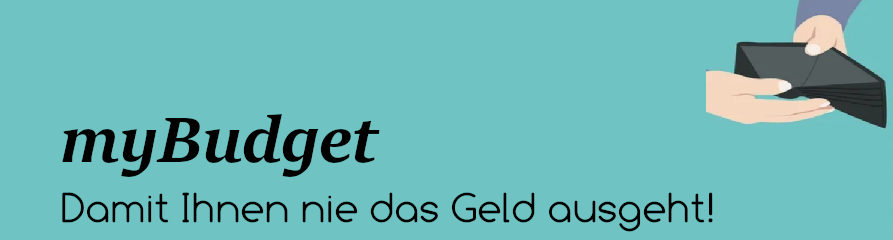
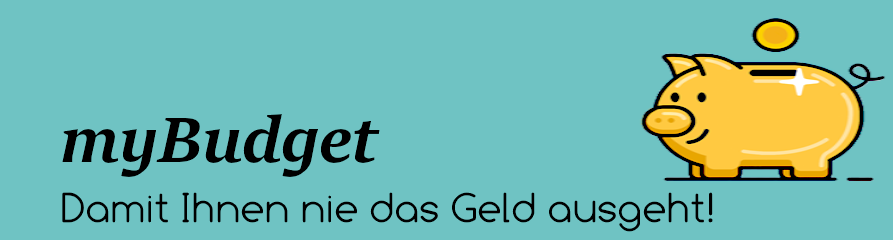
new graphics + incomes and fixedCosts implemented

Changed region(s): [[0.6954, 0.0, 0.9978, 0.7583]]

diff --git a/App.js b/App.js
@@ -350,6 +350,8 @@ const locales = RNLocalize.getLocales();
     //console.log(LocaleConfig.locales);
    }
    async init(){
+    //await storageSet('IncomesAndCostsJson','');
+
     //AsyncStorage.clear();
     //await storageSet('Currency','');
     //this.setState({ debug: "debug" }) ;
@@ -468,34 +470,36 @@ const locales = RNLocalize.getLocales();
         if (monthDiff > 0){//allakse o minas prepei na ginoyn shouldUpdate ola
           console.log('ALLAKSE O MINAS, UPDATE OLA')
           if(json13 != null){ //INCOMES
-            var retObj = this.updatePastMonthData(json13,thisMonth,value1);
+            var retObj =await this.updatePastMonthData(json13,thisMonth,value1);
             json13 = retObj.json;
             value1 = retObj.returnValue;          
             //console.log(refIncomesData)
           }
           if(json12 != null){ //FIXED COSTS
-            var retObj = this.updatePastMonthData(json12,thisMonth,value1);
+            var retObj =await this.updatePastMonthData(json12,thisMonth,value1);
             json12 = retObj.json;
             value1 = retObj.returnValue;          
            // console.log(refFixedCostsData)
           }
         }
         if(json13 != null){
-          var retObj2 = this.checkForBalanceUpdates(json13,thisMonthDays,value1);
+          var retObj2 =await this.checkForBalanceUpdates(json13,thisMonthDays,value1);
           json13 = retObj2.json;
           value1 = retObj2.returnValue;
           //refIncomesData = JSON.stringify(json13);
           await storageSet('DataSourceIncomes',JSON.stringify(json13))
+          await storageSet('Euros',value1);
           value13 = json13;
           //console.log(refIncomesData)
 
         }
         if(json12!=null){
-          var retObj2 = this.checkForBalanceUpdates(json12,thisMonthDays,value1);
+          var retObj2 = await this.checkForBalanceUpdates(json12,thisMonthDays,value1);
           json12 = retObj2.json;
           value1 = retObj2.returnValue;
           //refFixedCostsData = JSON.stringify(json12);
           await storageSet('DataSourceFixedCosts',JSON.stringify(json12))
+          await storageSet('Euros',value1);
           value12 = json12;
           //console.log(refFixedCostsData)
 
@@ -556,8 +560,12 @@ const locales = RNLocalize.getLocales();
      // this.state.euroState = value1;
      // this.state.paydayState;
    }
-   updatePastMonthData(json,thisMonth : Date,returnValue){
+   async updatePastMonthData(json,thisMonth : Date,returnValue){
     for(var i=0; i< Object.keys(json).length; i++){
+      let dayOfEntry = json[i].Day;
+      if(dayOfEntry == '0'){
+        continue;
+      }
         //na dw posoi mines perasan gia na to prosthesw toses fores
       var lastUpdatedDate = moment(new Date(json[i].lastUpdated+'-01').valueOf()).toDate();
       let monthDiff2 = thisMonth.getMonth() - lastUpdatedDate.getMonth() + (12 * (thisMonth.getFullYear() - lastUpdatedDate.getFullYear()));
@@ -566,7 +574,8 @@ const locales = RNLocalize.getLocales();
         //edit to returnValue
         //check to json[i].Type
         console.log('UPDATE TO POSO gia past month TYPE = '+ json[i].Type)
-
+        json[i].lastUpdated =  moment(new Date()).subtract(monthDiff2 -1,'month').format('YYYY-MM'); //ayto gia na apothikeytei i swsti imerominia sto IncomesAndCostsJson
+        returnValue =await this.actuallyUpdateCurrentBalance(json,returnValue,i);
         monthDiff2 = monthDiff2 - 1 ;
       }
       json[i].lastUpdated =  moment(new Date()).subtract(1,'month').format('YYYY-MM');
@@ -574,9 +583,12 @@ const locales = RNLocalize.getLocales();
     }
     return {json:json , returnValue:returnValue};
    }
-   checkForBalanceUpdates(json,thisMonthDays,returnValue){
+   async checkForBalanceUpdates(json,thisMonthDays,returnValue){
     for(var i=0; i< Object.keys(json).length; i++){       
       let dayOfEntry = json[i].Day;
+      if(dayOfEntry == '0'){
+        continue;
+      }
       while(parseInt(dayOfEntry) >parseInt(thisMonthDays)){ //ayto edw an o minas den exei 31 meres 
         dayOfEntry = parseInt(dayOfEntry) -1;
         console.log('remove one')
@@ -587,7 +599,7 @@ const locales = RNLocalize.getLocales();
         json[i].lastUpdated =  moment(new Date()).format('YYYY-MM');
         json[i].shouldUpdate = false;
         console.log('UPDATE TO POSO TYPE = '+ json[i].Type)
-
+        returnValue = await this.actuallyUpdateCurrentBalance(json,returnValue,i);
         //check to json[i].Type
         //json13[i].Amount = (parseFloat(json13[i].Amount) + 10).toString();
          //molis teliwsw refIncomesData = JSON.stringify(json);
@@ -599,6 +611,43 @@ const locales = RNLocalize.getLocales();
       // na vlepw an exoyn perasei k mines
     }
     return {json:json , returnValue:returnValue};
+   }
+   /** 
+   *kanei handle kai to fixedCosts kai to Income kai epistrefei to tropopoihmeno ypoloipo
+   */
+   async actuallyUpdateCurrentBalance(json,returnValue,i){
+     //kaloume thn   async saveExpensesToStorage(){
+      // afoy thesoyme to this.state.newspent = 'json[i].Amount' kai afairw kai to amount apo to return value kai this.state.selectedCategoryBtn = 4
+      //meta ta kanw '0' kai 0 (den xreiazetai ginetai meta sto setState apo ekei poy exoyn klhthei)
+      // this.state.newSpent = this.getStringNumberWithCorrectDecimals((json[i].Amount).toString());
+      // this.state.selectedCategoryBtn = 4;
+      // this.saveExpensesToStorage();
+      //ALLAGI SXEDIWN , (oi 3 parapanw grames doylevoyn bebaia, to vazoyn sto swsto day), basika mpainei sto day poy anoigeis tin efarmogi, opote as min ginei etsi
+      //apla tha to afairw, kai isws deixnw to history sto sygkekrimeno tab, gia na min ginetai mperdema
+    if(json[i].Type == 'FixedCosts'){
+      returnValue = this.getStringNumberWithCorrectDecimals((parseFloat(returnValue) - parseFloat(json[i].Amount)).toString())
+    }
+    if(json[i].Type == 'Incomes'){
+      //add to json[i].Amount sto returnvalue
+      returnValue = this.getStringNumberWithCorrectDecimals((parseFloat(returnValue) + parseFloat(json[i].Amount)).toString())
+    }
+    // ta apo katw einai idia kai gia Incomes kai gia FixedCosts
+    var dayToSave =  moment(json[i].lastUpdated+'-'+json[i].Day).format('YYYY-MM-DD'); //to last updated einai o twrinos minas (exei ginei pio prin), opote afairw enan mina gia na paw sto proigoymeno
+    var jsonEntryToSave = this.jsonifyInputFieldForSaving(json[i].Amount,json[i].Type,json[i].Description,json[i].Number,dayToSave); 
+    console.log(jsonEntryToSave)
+    var incomesAndCostsJson = await storageGet('IncomesAndCostsJson');
+    if(incomesAndCostsJson =='' || incomesAndCostsJson == null){
+      incomesAndCostsJson = '[]';
+    } 
+    var addComma = ',';
+    if(incomesAndCostsJson == '[]'){
+      addComma = '';
+    }
+    incomesAndCostsJson = incomesAndCostsJson.substring(0,incomesAndCostsJson.length-1) +addComma+jsonEntryToSave +']';
+    await storageSet('IncomesAndCostsJson',incomesAndCostsJson);
+    console.log('THIS IS INCOMES AND COSTS SAVED')
+    console.log(incomesAndCostsJson)
+    return returnValue;
    } 
    async fetchJsonExpenses(){
     var json = await storageGet('SpentTodayJson');
@@ -886,38 +935,40 @@ const locales = RNLocalize.getLocales();
     if (monthDiff > 0){//allakse o minas prepei na ginoyn shouldUpdate ola
       console.log('ALLAKSE O MINAS, UPDATE OLA')
       if(json13 != null){ //INCOMES
-        var retObj = this.updatePastMonthData(json13,thisMonth,value1);
+        var retObj = await this.updatePastMonthData(json13,thisMonth,value1);
         json13 = retObj.json;
         value1 = retObj.returnValue;          
         console.log(refIncomesData)
       }
       if(json12 != null){ //FIXED COSTS
-        var retObj = this.updatePastMonthData(json12,thisMonth,value1);
+        var retObj = await this.updatePastMonthData(json12,thisMonth,value1);
         json12 = retObj.json;
         value1 = retObj.returnValue;          
         console.log(refFixedCostsData)
       }
     }
     if(json13 != null){
-      var retObj2 = this.checkForBalanceUpdates(json13,thisMonthDays,value1);
+      var retObj2 =await this.checkForBalanceUpdates(json13,thisMonthDays,value1);
       json13 = retObj2.json;
       value1 = retObj2.returnValue;
       refIncomesData = JSON.stringify(json13);
       await storageSet('DataSourceIncomes',refIncomesData)
+      await storageSet('Euros',value1);
       value13 = json13;
       console.log(refIncomesData)
 
     }
     if(json12!=null){
-      var retObj2 = this.checkForBalanceUpdates(json12,thisMonthDays,value1);
+      var retObj2 =await this.checkForBalanceUpdates(json12,thisMonthDays,value1);
       json12 = retObj2.json;
       value1 = retObj2.returnValue;
       refFixedCostsData = JSON.stringify(json12);
       await storageSet('DataSourceFixedCosts',refFixedCostsData)
+      await storageSet('Euros',value1);
       value12 = json12;
       console.log(refFixedCostsData)
     }
-    this.setState({shouldShowFixedCosts:this.state.shouldShowFixedCosts,shouldShowIncomes:this.state.shouldShowIncomes,spentMonthState:value1, spentTodayState:'0' , dataSource:value9,moniesState:value7, paydayState:value2,euroState:this.state.euroState});
+    this.setState({selectedCategoryBtn:0,newSpent:'0',shouldShowFixedCosts:this.state.shouldShowFixedCosts,shouldShowIncomes:this.state.shouldShowIncomes,spentMonthState:value1, spentTodayState:'0' , dataSource:value9,moniesState:value7, paydayState:value2,euroState:this.state.euroState});
 
   }
    allLoaded(){
@@ -2144,14 +2195,18 @@ checkInputText(text){
         }                       
     }
 }
-if(newText=='.'){
+if(newText=='.' || newText=='-' || newText=='+'){
  newText = '0';
 }
+
 return newText;
 }
 checkIfAddOrSubNeeded(text: string){
   if(text.includes('-')){
     let strArr = text.split('-');
+    if(strArr[1] == ''){ //an exei kati toy styl 10- hh' 10+, to xwrize se pinaka ['10','']
+      strArr[1] ='0';
+    }
     if(strArr[0].split('.')[1]?.length>0)
     {
       strArr[0] = (parseFloat(strArr[0]).toFixed(2)).toString();
@@ -2165,10 +2220,17 @@ checkIfAddOrSubNeeded(text: string){
     {
       newNo = (parseFloat(newNo).toFixed(2)).toString();
     }
+    if(parseFloat(newNo)<0){
+      Alert.alert(I18n.t("Error"),I18n.t("ResultOfSubNegative"));
+      return '0';
+    }
     return newNo;
   }
   if(text.includes('+')){
     let strArr = text.split('+');
+    if(strArr[1] == ''){ //an exei kati toy styl 10- hh' 10+, to xwrize se pinaka ['10','']
+      strArr[1] ='0';
+    }
     if(strArr[0].split('.')[1]?.length>0)
     {
       strArr[0] = (parseFloat(strArr[0]).toFixed(2)).toString();
@@ -2181,6 +2243,10 @@ checkIfAddOrSubNeeded(text: string){
     if(newNo.split('.')[1]?.length>0)
     {
       newNo = (parseFloat(newNo).toFixed(2)).toString();
+    }
+    if(parseFloat(newNo)<0){
+      Alert.alert(I18n.t("Error"),I18n.t("ResultOfSubNegative"));
+      return '0';
     }
     return newNo;
   }
@@ -2775,6 +2841,7 @@ handleScroll (event){
           </View>
         </Modal>
         </View>
+        { false && //hidden for now
         <View style={[styles.twoViewsStartEndContainer,{padding:15}]}>
         <ProBanner isPro={this.state.isPro}></ProBanner>
          <FontAwesome
@@ -2788,6 +2855,7 @@ handleScroll (event){
           </View>
         </Modal>
         </View>
+        }
         <View style={styles.footerLine}/>
         <View style={[styles.twoViewsStartEndContainer,{padding:15}]}>
         <FontAwesome
@@ -2891,6 +2959,24 @@ handleScroll (event){
     categoryName6 = await storageGet('categoryName6');
     categoryName7 = await storageGet('categoryName7');
   }
+  freeUserMessage(msg){
+    Alert.alert(
+      I18n.t("FreeUserTrialTitle"),
+      I18n.t("FreeUserTrialMessage"),
+      [       
+        {
+          text: "OK",
+          onPress: async () =>{
+            //min to ksanadeikseis
+            console.log(msg)
+            await storageSet(msg,'true')
+          }
+          
+        },       
+      ]
+    );
+
+  }
   buyProVersionPrompt(){
     Alert.alert(
       I18n.t("ProVersionOnlyTitle"),
@@ -2928,7 +3014,7 @@ handleScroll (event){
   //todo: to savingsValues[] logika thelei arxikopoihsh , mporei kai oxi epeidh tha kanw storageSet to  dataSourceSavings sto closeSavingsView 99% den xreiazetai
   //todo: sto end edit toy textInput kai toy posoy kai toy description , tha kanw update to refSavingsData , gia na to xrisimopoihsw meta sto closeSavingsView
   //todo: sto closeSavingsView tha ginetai o ypologismos tou savingsState
-    openSavingsView(){
+   async openSavingsView(){
     refEuroState = this.state.euroState;
     refSavingsState = this.state.savingsState;
       if(this.state.dataSourceSavings == null || this.state.dataSourceSavings == ''){
@@ -2938,6 +3024,11 @@ handleScroll (event){
       }
     
     this.setState({openSavingsView:true})
+    let isPro = await storageGet("IsPro");
+    let hasSeen = await storageGet("hasSeenSavings");
+    if(isPro != 'true' && hasSeen != 'true'){
+      await this.freeUserMessage('hasSeenSavings');
+    }
   }
   async closeSavingsView(){
     this._textInputRefs = [];
@@ -3177,6 +3268,11 @@ handleScroll (event){
       }
     
     this.setState({openIncomesView:true})
+    let isPro = await storageGet("IsPro");
+    let hasSeen = await storageGet("hasSeenIncomes");
+    if(isPro != 'true' && hasSeen != 'true'){
+      await this.freeUserMessage('hasSeenIncomes');
+    }
   }
   async closeIncomesView(){
     this._textInputRefs = [];
@@ -3344,8 +3440,13 @@ handleScroll (event){
       }else{
         refFixedCostsData = JSON.stringify(this.state.dataSourceFixedCosts);
       }
-    
+   
     this.setState({openFixedCostsView:true})
+    let isPro = await storageGet("IsPro");
+    let hasSeen = await storageGet("hasSeenFixedCosts");
+    if(isPro != 'true' && hasSeen != 'true'){
+      await this.freeUserMessage('hasSeenFixedCosts');
+    }
   }
   async closeFixedCostsView(){
     this._textInputRefs = [];
@@ -4195,6 +4296,9 @@ handleScroll (event){
   jsonifyInputFixedCostsField(amount,type,description,number,dayNum,shouldUpdate,lastUpdated){
     return '{"Amount":"'+amount+'", "Type":"'+type+'", "Description":"'+description+'","Number":"'+number+'","Day":'+dayNum+',"shouldUpdate":'+shouldUpdate+',"lastUpdated":"'+lastUpdated+'"}';
   }
+  jsonifyInputFieldForSaving(amount,type,description,number,lastUpdated){
+    return '{"Amount":"'+amount+'", "Type":"'+type+'", "Description":"'+description+'","Number":"'+number+'","lastUpdated":"'+lastUpdated+'"}';
+  }
   renderExpensesJsonList = ({ item }) => (
     <View style={[styles.rowContainer,{justifyContent:'space-between'}]}>
     <Text style={[styles.textFaint,{marginLeft:0,fontStyle:'italic'}]}>{this.stringWithCorrectCurrencyPosition(item.Amount)}</Text>
@@ -4346,6 +4450,17 @@ getSpentTodayStateWithCorrectDecimals(){
   }
  //(parseFloat(this.state.euroState).toFixed(2)).toString()
 }
+ /**
+ * CARE: Must call with convert float to string (eg. 2.125.toString())
+ */
+  getStringNumberWithCorrectDecimals(str){
+    var index = str.indexOf('.');
+    if (index >= 0) {
+      return (parseFloat(str).toFixed(2)).toString();
+    } else {
+      return str;
+    }
+  }
 
 getLocalisedFullDateString(dateString){
   console.log('WTF LOLCALE ' +moment.locale())
